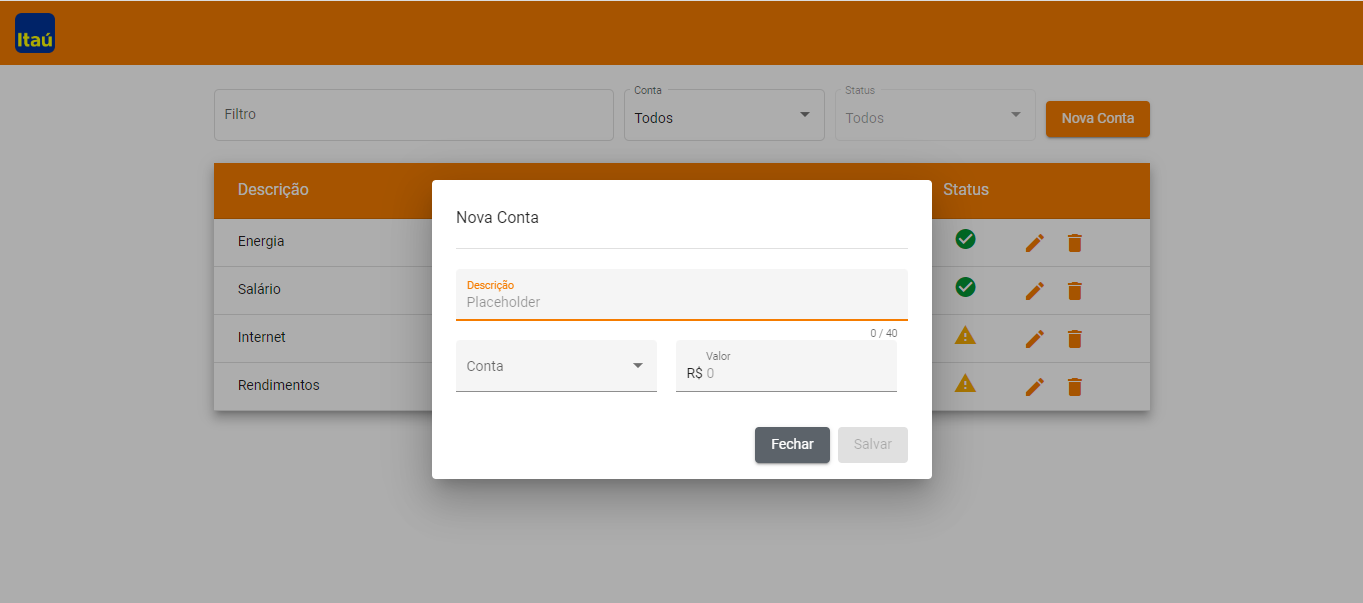
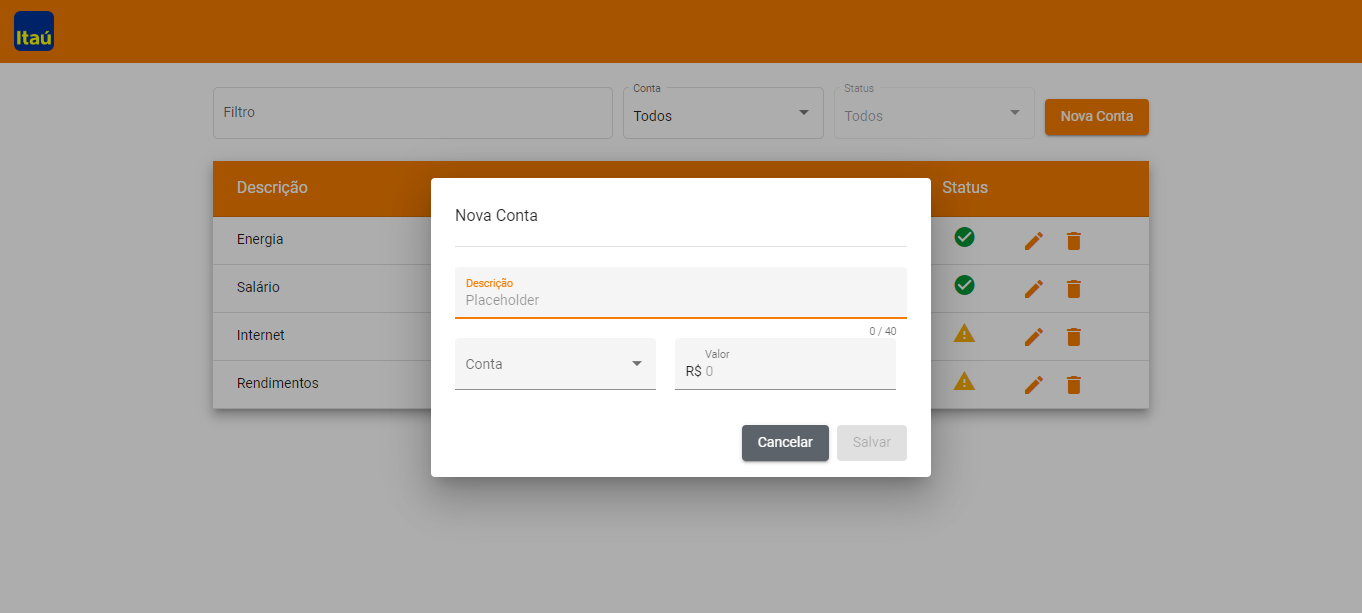
readme

diff --git a/src/app/financial/components/dialog-bill/dialog-bill.component.html b/src/app/financial/components/dialog-bill/dialog-bill.component.html
@@ -34,7 +34,7 @@
     <div align="end" mat-dialog-actions>
       <button  mat-raised-button mat-dialog-close 
         class="btn-secondary">
-        Fechar
+        Cancelar
       </button>
       <button  mat-raised-button color="primary"
         class="text-white" type="submit"

diff --git a/README.md b/README.md
@@ -9,12 +9,17 @@
 ![App Contas](src/assets/images/new.png 'App Contas')
 
 ---
-## Rodar o projeto:
-
+### Rodar o projeto:
+- Instale json-server `npm i json-server`
 - git clone https://github.com/larissaluanaleal/challenge-bills.git
 - Execute `npm install`
-- Execute `json-server --watch data-base.json` deixe rodando.
+- Execute `json-server --watch data-base.json` e deixe rodando.
 - Em outro terminal execute `ng serve -o`
 - Acesse http://localhost:4200/
 
 ---
+
+### Funcionalidades:
+- Controle de contas a pagar e receber.
+- Consultar, cadastrar, atualizar e excluir contas;
+- Consultar contas com os seguintes filtros: descrição, valor, tipo e status.
